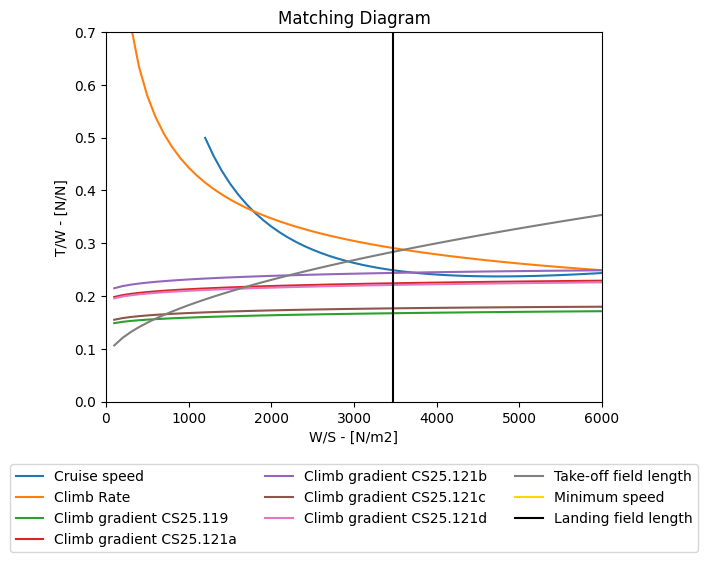
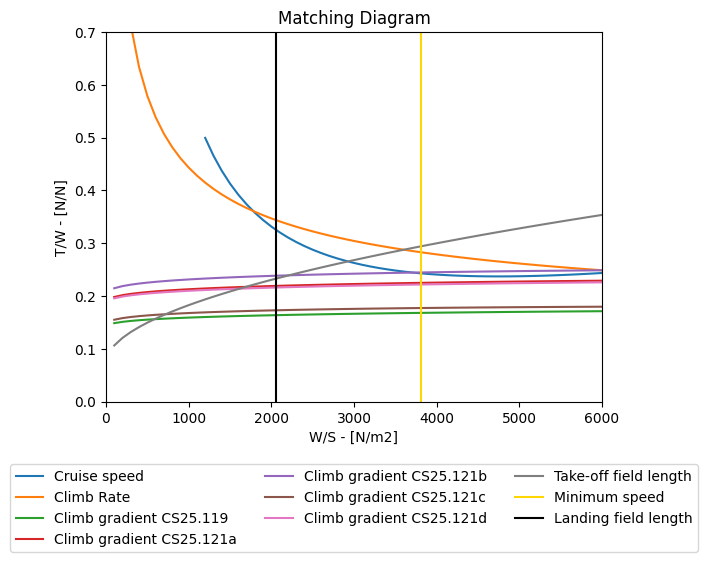
idk

diff --git a/fixed_values.py b/fixed_values.py
@@ -36,7 +36,7 @@ beta = 0.95
 mass_fraction_landing = 0.7
 landing_field = 700
 density_landing = 1.165
-C_L_max_landing = 2.55
+C_L_max_landing = 1.51
 density_takeoff = 1.225225
 CL_takeoff = 1.6370864382454
 temp_takeoff = 288.18
